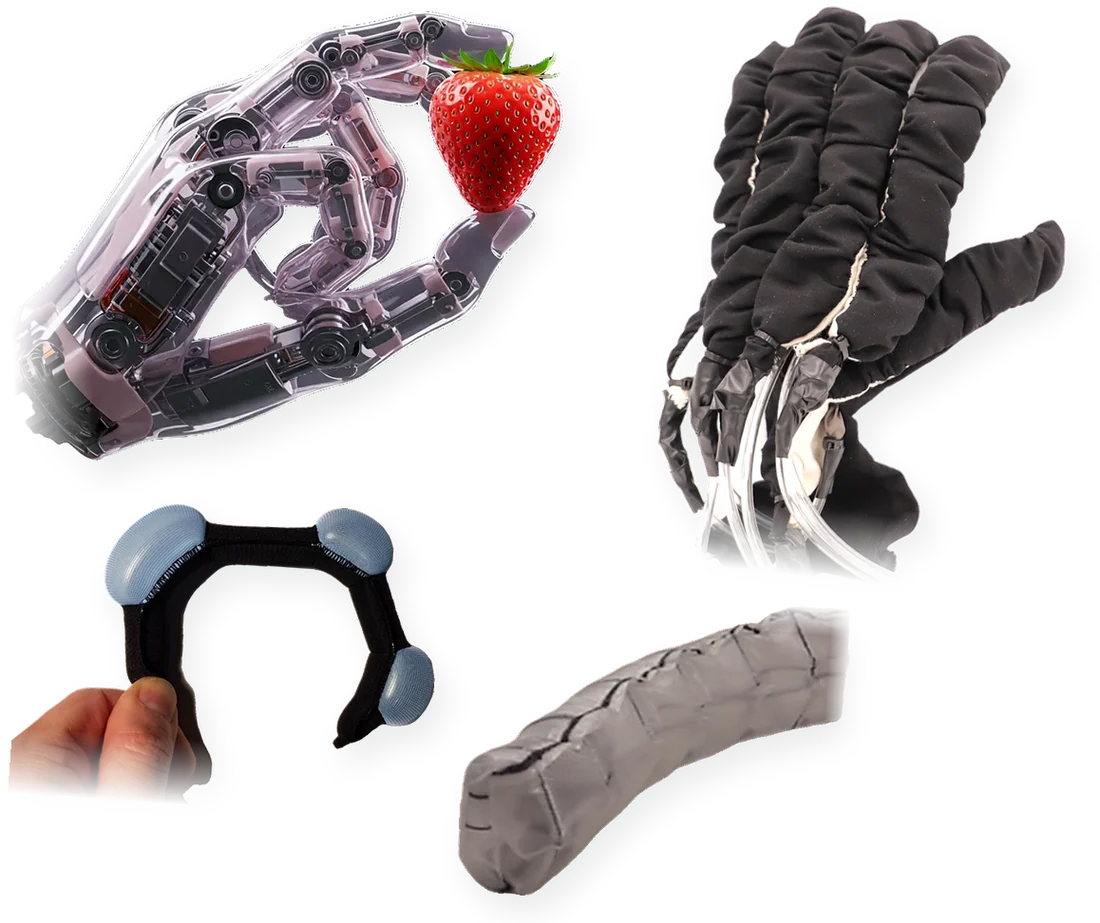
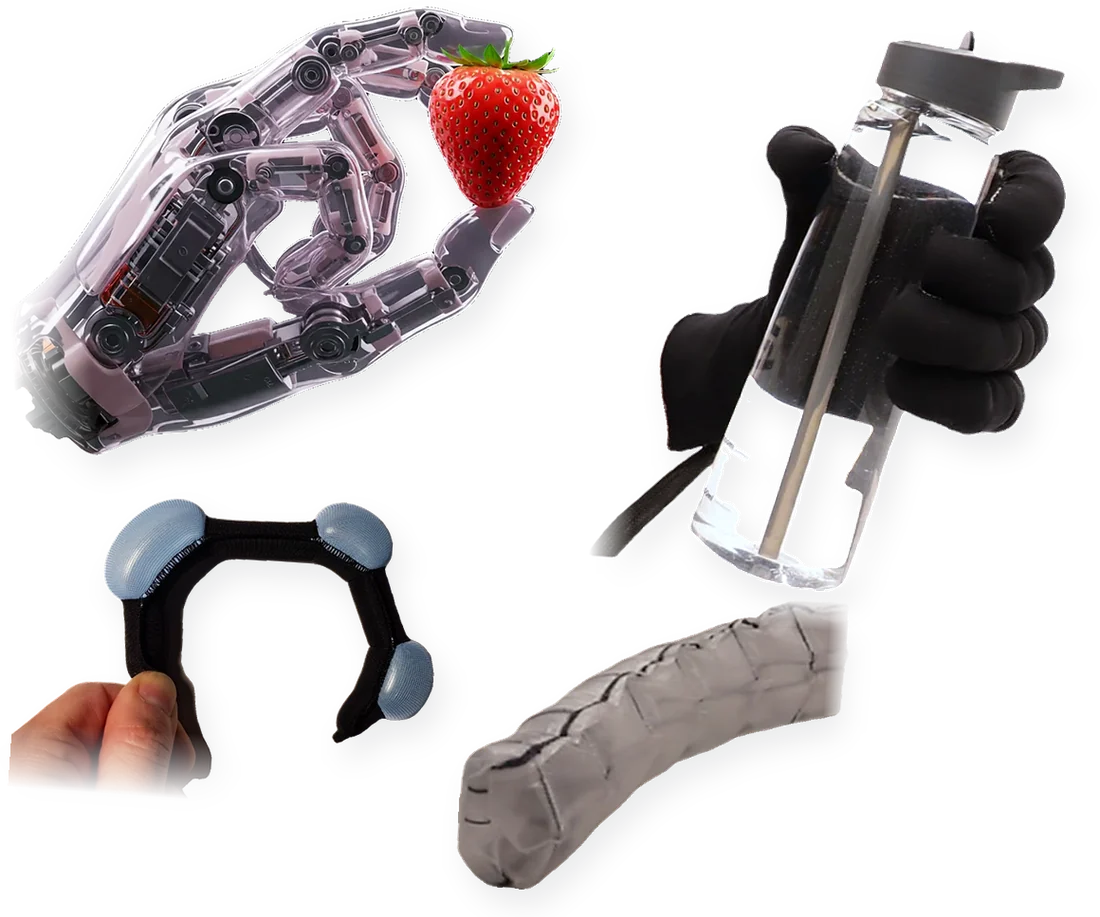
Add files via upload

diff --git a/index.html b/index.html
@@ -424,7 +424,7 @@
 <footer>
   <div class="container">
     <div>Skins, Sleeves and Sheaths · Workshop at IEEE ICRA 2027, Seoul</div>
-    <div>Contact: <a href="mailto:yunqi.huang.23@ucl.ac.uk">yunqi.huang.23@ucl.ac.uk</a></div>
+    <div>Contact: <a href="mailto:c.suulker@ucl.ac.uk">c.suulker@ucl.ac.uk</a></div>
   </div>
 </footer>
 
